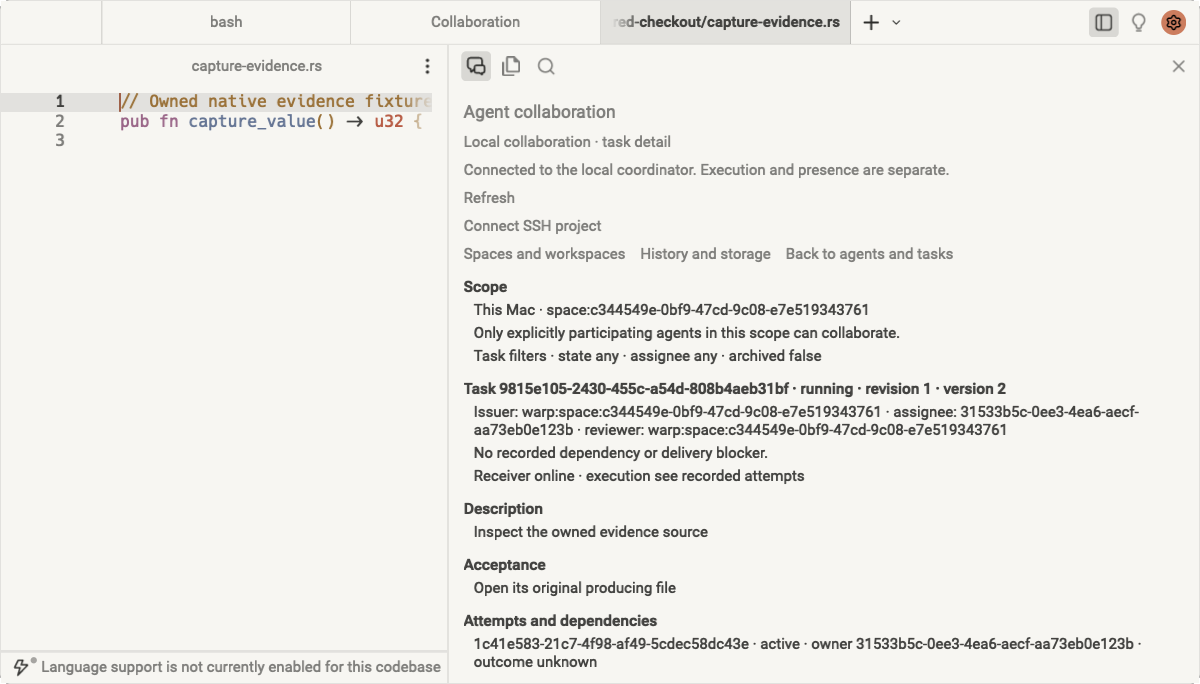
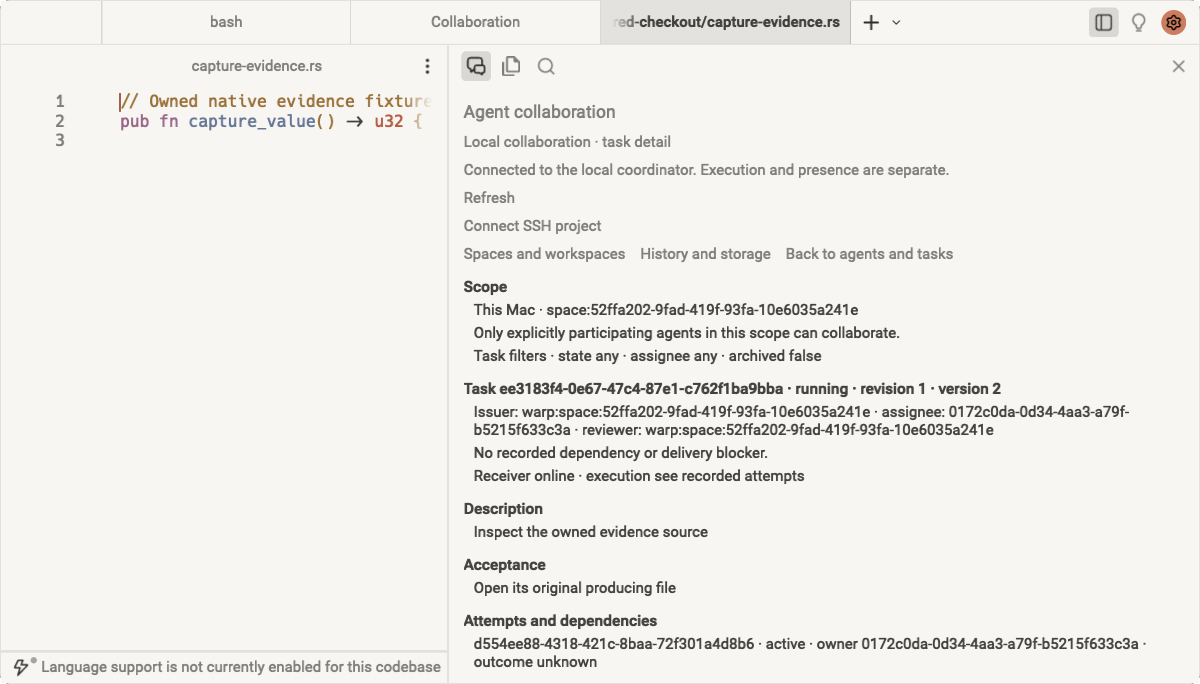
Record accepted native UI and warm screenshot provenance

Changed region(s): [[0.4008, 0.5526, 0.9558, 0.6447], [0.4008, 0.9211, 0.9558, 0.9518], [0.4933, 0.4298, 0.74, 0.4605]]

diff --git a/MEMORY.md b/MEMORY.md
@@ -50,6 +50,28 @@
   application/bridge/ConPTY/OpenConsole, portable runtime files and installer
   header. Paid vendor sessions and physical-host installation are not claimed.
 
+## Product introduction — 2026-10-04
+
+- User wants README to introduce Warpai as a product, with images and concrete
+  advantages, rather than comparing additions against upstream. Lead with the
+  terminal workspace, user-owned CLI collaboration and scoped SSH projects.
+  Keep maintenance/build records in docs/DEVELOPMENT.md. Preserve README core
+  guardrails and license/provenance links.
+- User requested corresponding Chinese documentation and working navigation.
+  Maintain README.zh-CN.md, docs/DEVELOPMENT.zh-CN.md and screenshot provenance
+  alongside their English counterparts. The Chinese agent usage guide is
+  docs/AGENTS.zh-CN.md, linked bidirectionally to the English technical coverage.
+  Keep App menu names and commands unchanged for matching actual UI.
+  Chinese README uses explicit stable anchors; technical/license originals are
+  linked with their language identified rather than silently presented as Chinese.
+- README screenshots are unmodified native Claude Warm Light captures from
+  source 3b31566; sample-data provenance is recorded in docs/images/README.md. Distinguish
+  published v0.5.7-lite terminal packages from current collaboration review builds.
+- User reports an independently designed Warpai icon, but it was not found in
+  this checkout or post-fork image history. Packaging currently retains upstream
+  Mono artwork on macOS and the OSS icon on Windows; do not invent a replacement
+  logo or describe branding assets as fully synchronized.
+
 ## Product Boundary
 
 - Current platform scope (user correction 2026-10-03): local desktop GUI targets macOS/Windows; SSH Remote environments and the repository-owned companion target Linux/macOS/Windows. Linux helper builds and focused remote tests are authorized; Linux desktop/UI remains excluded. This supersedes the broader Linux exclusion recorded on 2026-10-01.
@@ -671,3 +693,25 @@ R2.6 fresh remote MCP and R2.7 local pending-intent projections remain pending.
   Use README's transient existing-panel selection and manual source-matched helper
   setup. Paid vendor sessions, physical cross-device tests and release publication
   are not claimed. Earlier pending manager/checkpoint notes are historical.
+
+- Collaboration UI consistency uses Global Search panel text roles and the shared
+  `settings_page::render_body_item` for local MCP rows. Keep related native actions
+  in wrapping groups and field labels 4px from their editors; preserve all focus,
+  disabled/submitting guards and warnings. Native capture now includes six
+  communication-settings images (light/dark/Claude Warm Light, zoom 1/1.25),
+  with fixed unavailable CLI rows only in the isolated debug profile and no vendor
+  configuration calls. Source 33e717d passed full macOS/Windows regression and
+  packaging run 37180907136. Final source 3b31566 passed both application variants,
+  protocol tests and all 161 native captures per OS in run 37188935250.
+
+- Native screenshot requests can time out or lose their callback on CI. Retry up
+  to three fresh frame requests in the shared post-step capture handler, without
+  replaying UI actions. Preserve exact-count/nonempty PNG acceptance; exhausting
+  retries must not produce an accepted run. This resolved two different Windows
+  missing-frame failures reproduced at source a5699b9.
+
+- User documentation preference on 2026-10-04: README screenshots must show the
+  default Claude Warm Light theme. Reset the native capture theme before the
+  documentation scenarios; use source-matched raw PNGs and update both language
+  captions/provenance. Do not recolor screenshots or change the application's
+  default theme to compensate for the capture driver's earlier Dark selection.

diff --git a/specs/agent-communication-v2/UI-CONSISTENCY.md b/specs/agent-communication-v2/UI-CONSISTENCY.md
@@ -37,14 +37,17 @@ No new surface, dependency, protocol or configuration behavior.
 - Full regression and review packaging:
   [run 37180907136](https://github.com/OthinusG/warp-lite/actions/runs/37180907136),
   source `33e717d26e18d60745c5cc87a73d828d38616e44`, passed on macOS and Windows.
-- Final source `a5699b93f0ab7dca769350812d8c4be66e10e249`:
-  [run 37184297938](https://github.com/OthinusG/warp-lite/actions/runs/37184297938).
-  Default and `warp_platform` checks passed on both OSes. macOS captured 161
-  nonempty PNGs with exit code 0 and no failed action assertions. Windows attempt
-  1 captured 160 PNGs with no failed action assertions, but missed
-  `light-320-1-agents.png`. Attempt 2 also captured 160, missing
-  `light-320-1-tasks.png`. Shared capture previously discarded a single failed
-  request; bounded fresh-frame retries are pending native verification.
+- Final source `3b315664131933837c735896239ae750f3c674c1`:
+  [run 37188935250](https://github.com/OthinusG/warp-lite/actions/runs/37188935250),
+  passed on both OSes. Default and `warp_platform` checks, protocol/persistence/
+  native socket/MCP tests, and native action assertions passed. Each OS captured
+  161 nonempty PNGs with exit code 0 and no failed action assertions.
+- Earlier source `a5699b9`,
+  [run 37184297938](https://github.com/OthinusG/warp-lite/actions/runs/37184297938),
+  reproduced Windows missing-frame failures twice, for different static PNGs.
+  Shared capture previously discarded a single failed request. The final driver
+  retries fresh frames up to three times without replaying UI actions; the exact
+  image-count gate remains unchanged and now passes on both OSes.
 - Visual review confirmed 14px secondary panel titles, semibold section labels,
   12px secondary guidance, wrapping navigation/pagination/form actions and 4px
   label/editor spacing. Warnings retain ordinary contrast. Dynamic agent actions

diff --git a/docs/images/README.zh-CN.md b/docs/images/README.zh-CN.md
@@ -6,10 +6,10 @@
 截图中的项目、Agent 和任务是原生验收驱动使用的样例，不是用户项目或经过认证的服务商模型会话。
 
 - 主题：默认的 **Claude Warm Light**，由原生应用直接渲染。
-- 源码版本：`a5699b93f0ab7dca769350812d8c4be66e10e249`。
-- [GitHub 桌面验证记录 37184297938](https://github.com/OthinusG/warp-lite/actions/runs/37184297938)。
+- 源码版本：`3b315664131933837c735896239ae750f3c674c1`。
+- [GitHub 桌面验证记录 37188935250](https://github.com/OthinusG/warp-lite/actions/runs/37188935250)。
 - 产物名称：`Warpai-collaboration-native-captures-macOS`。
-- 截图目录：`capture-9660/collaboration-static/2026-10-04T07-37-36`。
+- 截图目录：`capture-96865/collaboration-static/2026-10-04T08-55-17`。
 
 | 文档图片 | 原始截图 | 内容 |
 | --- | --- | --- |

diff --git a/docs/images/README.md b/docs/images/README.md
@@ -8,10 +8,10 @@ the native review driver; they are not customer projects or authenticated vendor
 model sessions.
 
 - Theme: default **Claude Warm Light**, rendered by the native app.
-- Source: `a5699b93f0ab7dca769350812d8c4be66e10e249`.
-- [GitHub desktop run 37184297938](https://github.com/OthinusG/warp-lite/actions/runs/37184297938).
+- Source: `3b315664131933837c735896239ae750f3c674c1`.
+- [GitHub desktop run 37188935250](https://github.com/OthinusG/warp-lite/actions/runs/37188935250).
 - Artifact: `Warpai-collaboration-native-captures-macOS`.
-- Capture set: `capture-9660/collaboration-static/2026-10-04T07-37-36`.
+- Capture set: `capture-96865/collaboration-static/2026-10-04T08-55-17`.
 
 | Documentation image | Original capture | Shows |
 | --- | --- | --- |
